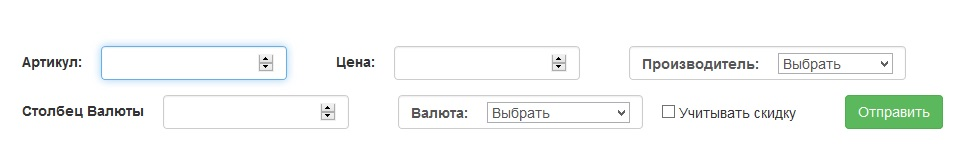
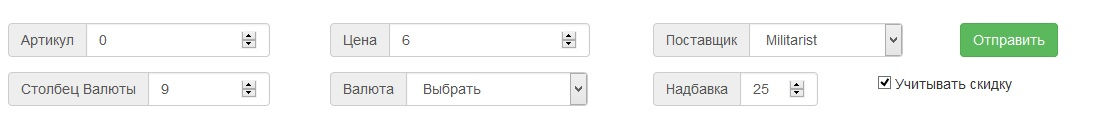
Add surcharge.

diff --git a/app/Http/Controllers/ExcelController.php b/app/Http/Controllers/ExcelController.php
@@ -86,6 +86,9 @@ class ExcelController extends Controller
         $manufacturer = $request->get('manufacturer');
         $currency = $request->get('currency');
         $currencyCol = $request->get('currency_col');
+        $surcharge = is_null($request->get('surcharge')) ? 1 : ($request->get('surcharge') / 100 + 1);
+
+        Session::put('surcharge', $surcharge);
 
         if ($request->get('old')) {
             session(['old' => true]);
@@ -160,33 +163,24 @@ class ExcelController extends Controller
         Session::put('excel_data', $collection);
 
         return view('excel.preview', ['error' => $error, 'excelRow' => count($id), 'tableRow' => $tableRow->count(),
-            'currency' => $currency_responce, 'manufacturer' => $manufacturer]);
+            'currency' => $currency_responce, 'manufacturer' => $manufacturer, 'surcharge' => $surcharge]);
     }
 
 
+    /**
+     * Обновление БД.
+     * @return \Illuminate\Http\RedirectResponse
+     */
     public function updateExcel()
     {
         $data = Session::get('excel_data');
 
+        $surcharge = Session::get('surcharge');
+
         if (session('old')) {
-            foreach ($data->all() as $row) {
-                $oldPrice = DB::table('s_variants')
-                    ->where([['sku', '=', $row->sku], ['manufacturer', '=', $row->manufacturer]])
-                    ->get()->first()->price;
-                if ($oldPrice < $row->price) {
-                    DB::table('s_variants')
-                        ->where([['sku', '=', $row->sku], ['manufacturer', '=', $row->manufacturer]])
-                        ->update([
-                            'price' => $row->price,
-                            'currency' => $row->currency_id,
-                            'compare_price' => $oldPrice
-                        ]);
-                } else {
-                    $this->update($data);
-                }
-            }
+            $this->updateWithOld($data, $surcharge);
         } else {
-            $this->update($data);
+            $this->update($data, $surcharge);
         }
 
         Storage::disk('excel')->delete(session('file_name'));
@@ -195,6 +189,11 @@ class ExcelController extends Controller
         return redirect(route('index_excel'))->with('message', 'Обновление БД завершено');
     }
 
+    /**
+     * Отменна обновления БД. Файл з данными удаляеться, а сессия очищаеться.
+     * Редирект на начальную страницу.
+     * @return \Illuminate\Http\RedirectResponse|\Illuminate\Routing\Redirector
+     */
     public function cancel()
     {
         Storage::disk('excel')->delete(session('file_name'));
@@ -206,17 +205,56 @@ class ExcelController extends Controller
     {
     }
 
-    private function update($data) {
+
+    /**
+     * Обновление БД без учета старой цены
+     * @param $data - Collection of ExcelData
+     * @param $surcharge - float
+     */
+    private function update($data, $surcharge) {
         foreach ($data->all() as $row) {
             DB::table('s_variants')
                 ->where([['sku', '=', $row->sku], ['manufacturer', '=', $row->manufacturer]])
                 ->update([
-                    'price' => $row->price,
+                    'price' => $row->price * $surcharge,
                     'currency' => $row->currency_id
                 ]);
         }
     }
 
+    /**
+     * Обновление БД с учетом старой цены. Если старая цена меньше, то она записываеться в compare_price
+     * @param $data - Collection of ExcelData
+     * @param $surcharge - float
+     */
+    private function updateWithOld($data, $surcharge) {
+
+        foreach ($data->all() as $row) {
+            $oldPrice = DB::table('s_variants')
+                ->where([['sku', '=', $row->sku], ['manufacturer', '=', $row->manufacturer]])
+                ->get()->first()->price;
+            if ($oldPrice < $row->price) {
+                DB::table('s_variants')
+                    ->where([['sku', '=', $row->sku], ['manufacturer', '=', $row->manufacturer]])
+                    ->update([
+                        'price' => $row->price * $surcharge,
+                        'currency' => $row->currency_id,
+                        'compare_price' => $oldPrice
+                    ]);
+            } else {
+                $this->update($data, $surcharge);
+            }
+        }
+
+    }
+
+    /**
+     *
+     * @param $row - Строка записи из экселя
+     * @param $articul - позиция артикула в массиве
+     * @param $price - позиция цены в массиве
+     * @return bool
+     */
     private function checkRow($row, $articul, $price)
     {
         if (is_null($row[$articul])) {
@@ -232,6 +270,10 @@ class ExcelController extends Controller
 
     }
 
+    /**
+     * Функция берёт из БД все записи по валюте и возвращает массив
+     * @return mixed
+     */
     private function getAllCurrencies()
     {
         $currencies = DB::table('s_currencies')->where('manufacturer', '=', '')->get();

diff --git a/resources/views/excel/info.blade.php b/resources/views/excel/info.blade.php
@@ -41,6 +41,7 @@
             <li>Если пользователь указывает столбец в котором записан тип валюты то, для каждой строки файла excel валюта будет подбираться индивидульно. Список валидных валют приведён выше.</li>
             <li>Если пользователь указывает валюту то, этот тип валюты применится ко всем найденым товарам.</li>
             <li>Если пользователь указывает валюту и столбец  с валютой то, это будет считаться ошибкой пользователя и обновить базу данных вы не сможете.</li>
+            <li>Надбавку нужно указывать как целое число. Если нужно 25% просто укажите целое число 25. Если же надбавка не указана, она будет считаться за 1.</li>
             <li><strong>После обновления базы данных в стоимость товара запишеться цена которая была указана в файле excel, а тип валюты будет установлен исходя из имеющихся данных.</strong></li>
         </ol>
     </div>

diff --git a/resources/views/excel/preview.blade.php b/resources/views/excel/preview.blade.php
@@ -31,10 +31,11 @@
                                     </span>
                     @endif
 
-                    <h2>Количество полей в excel: {{ $excelRow }}</h2>
-                    <h2>Количество найденых совпадений в БД: {{ $tableRow }}</h2>
-                    <h2>Производитель: {{ $manufacturer }}</h2>
-                    <h2>Данные по валюте: {{ $currency }}</h2>
+                    <h3>Количество полей в excel: {{ $excelRow }}</h3>
+                    <h3>Количество найденых совпадений в БД: {{ $tableRow }}</h3>
+                    <h3>Производитель: {{ $manufacturer }}</h3>
+                    <h3>Данные по валюте: {{ $currency }}</h3>
+                    <h3>Коэфициент надбавки: {{ $surcharge }}</h3>
                     <div class="btn-group btn-group-justified">
                         <a href="{{ route('cancel_update') }}" class="btn btn-danger">Отменить</a>
                         @if(!$error)

diff --git a/resources/views/excel/excel_table.blade.php b/resources/views/excel/excel_table.blade.php
@@ -73,7 +73,13 @@
                     </select>
                 </div>
             </div>
-            <div class="form-group checkbox  col-md-3">
+            <div class="form-group col-md-2">
+                <div class="input-group margin_top_10 ">
+                    <span class=" i-text-info input-group-addon">Надбавка</span>
+                    <input type="number" name="surcharge" class="form-control" id="surcharge" autofocus>
+                </div>
+            </div>
+            <div class="form-group checkbox  col-md-2">
                 <label>
                     <input type="checkbox" name="old" value="true"> Учитывать скидку
                 </label>
